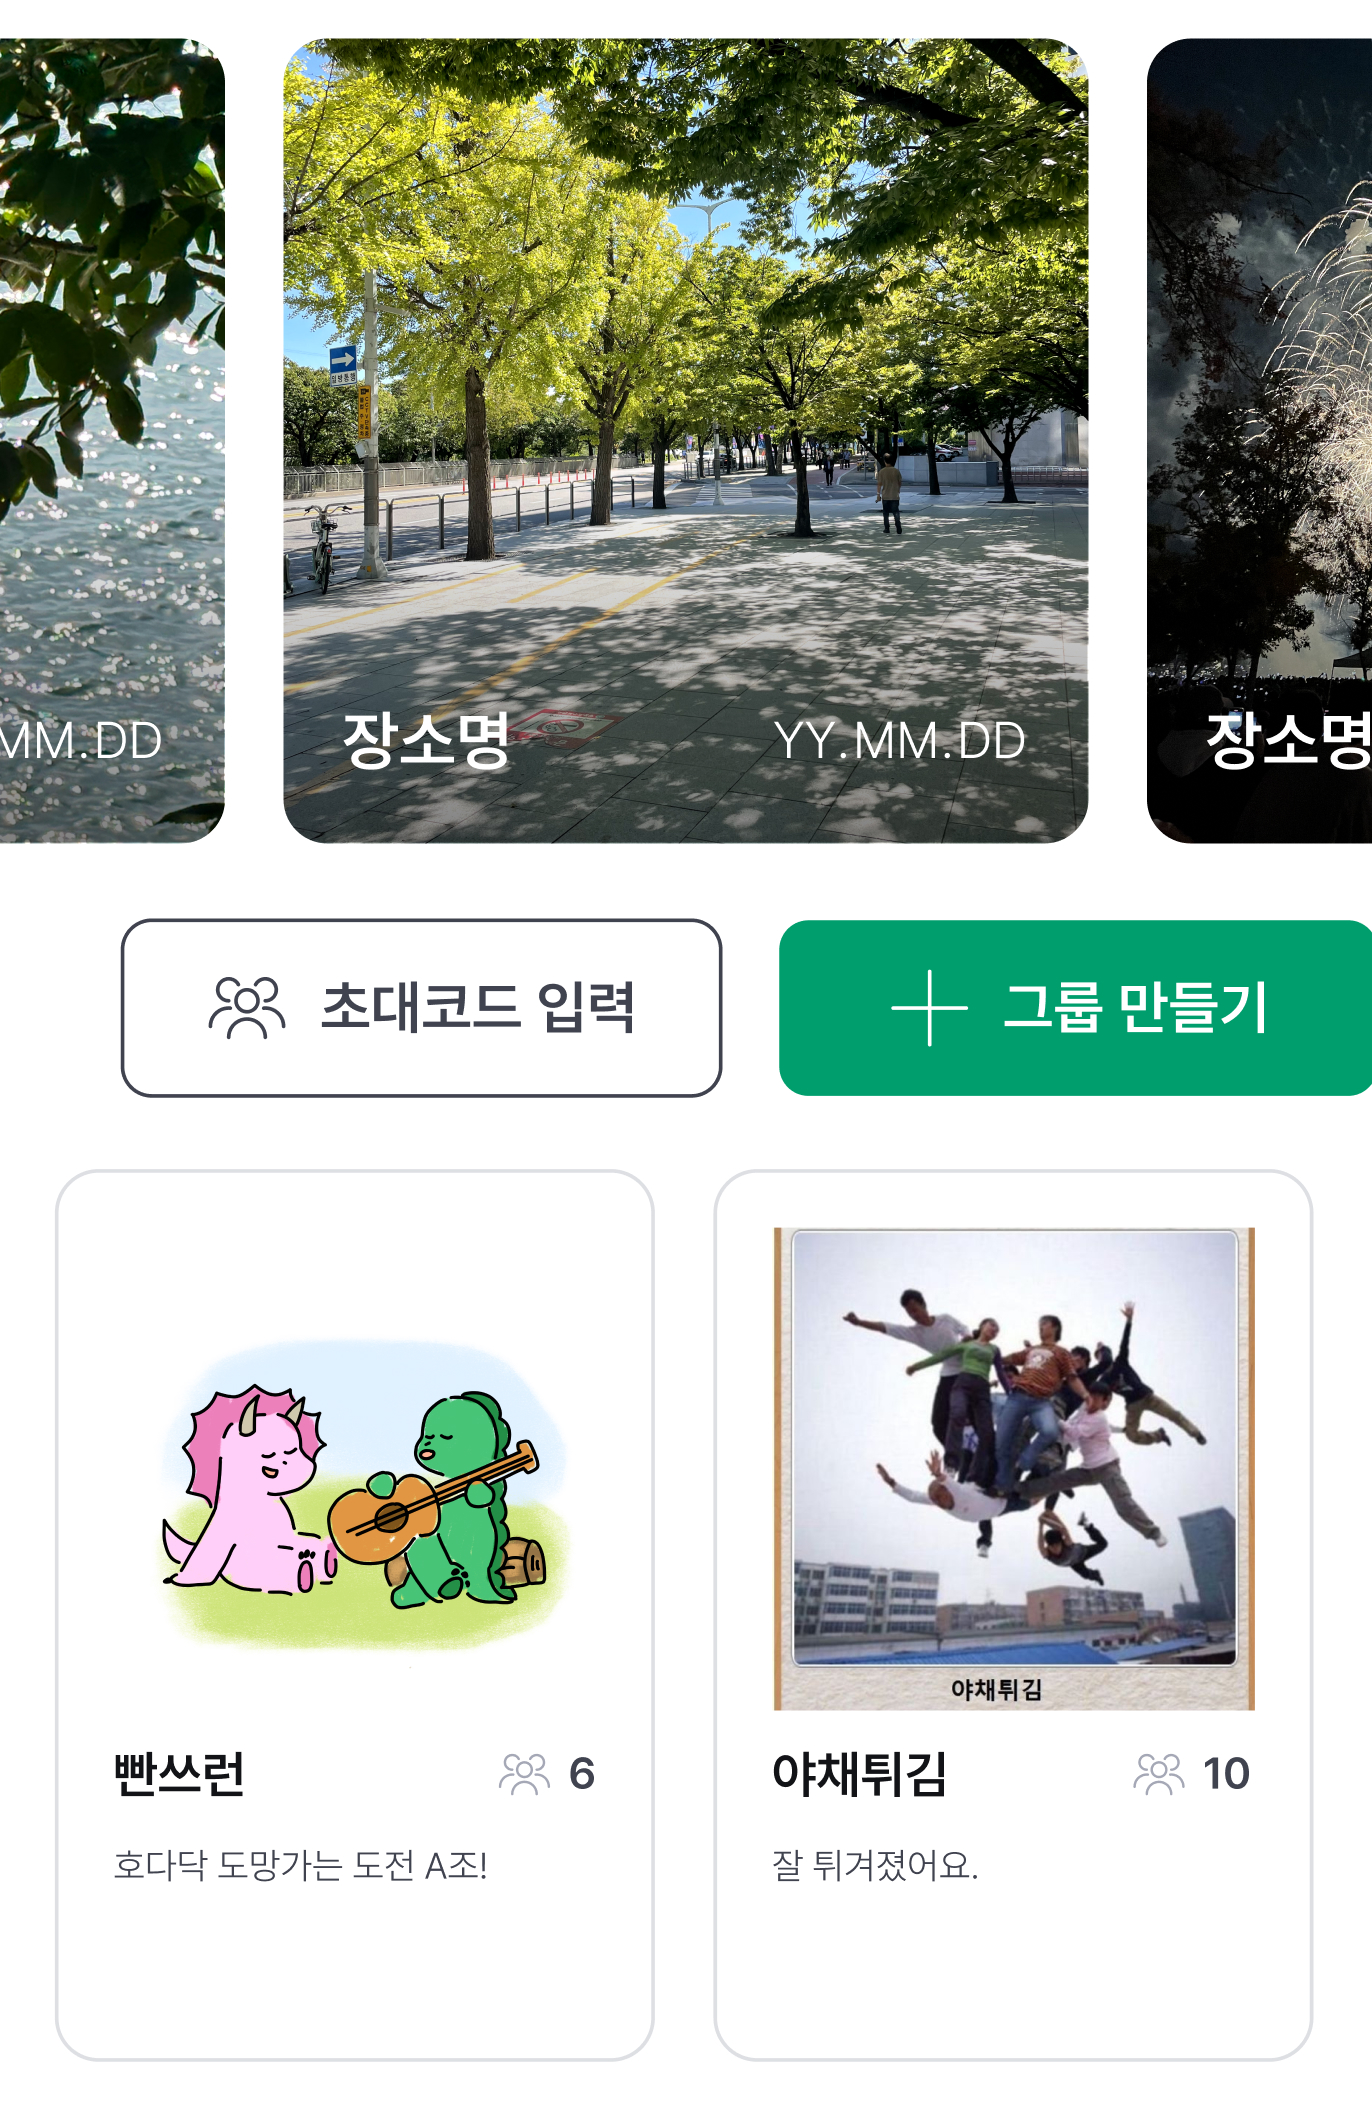
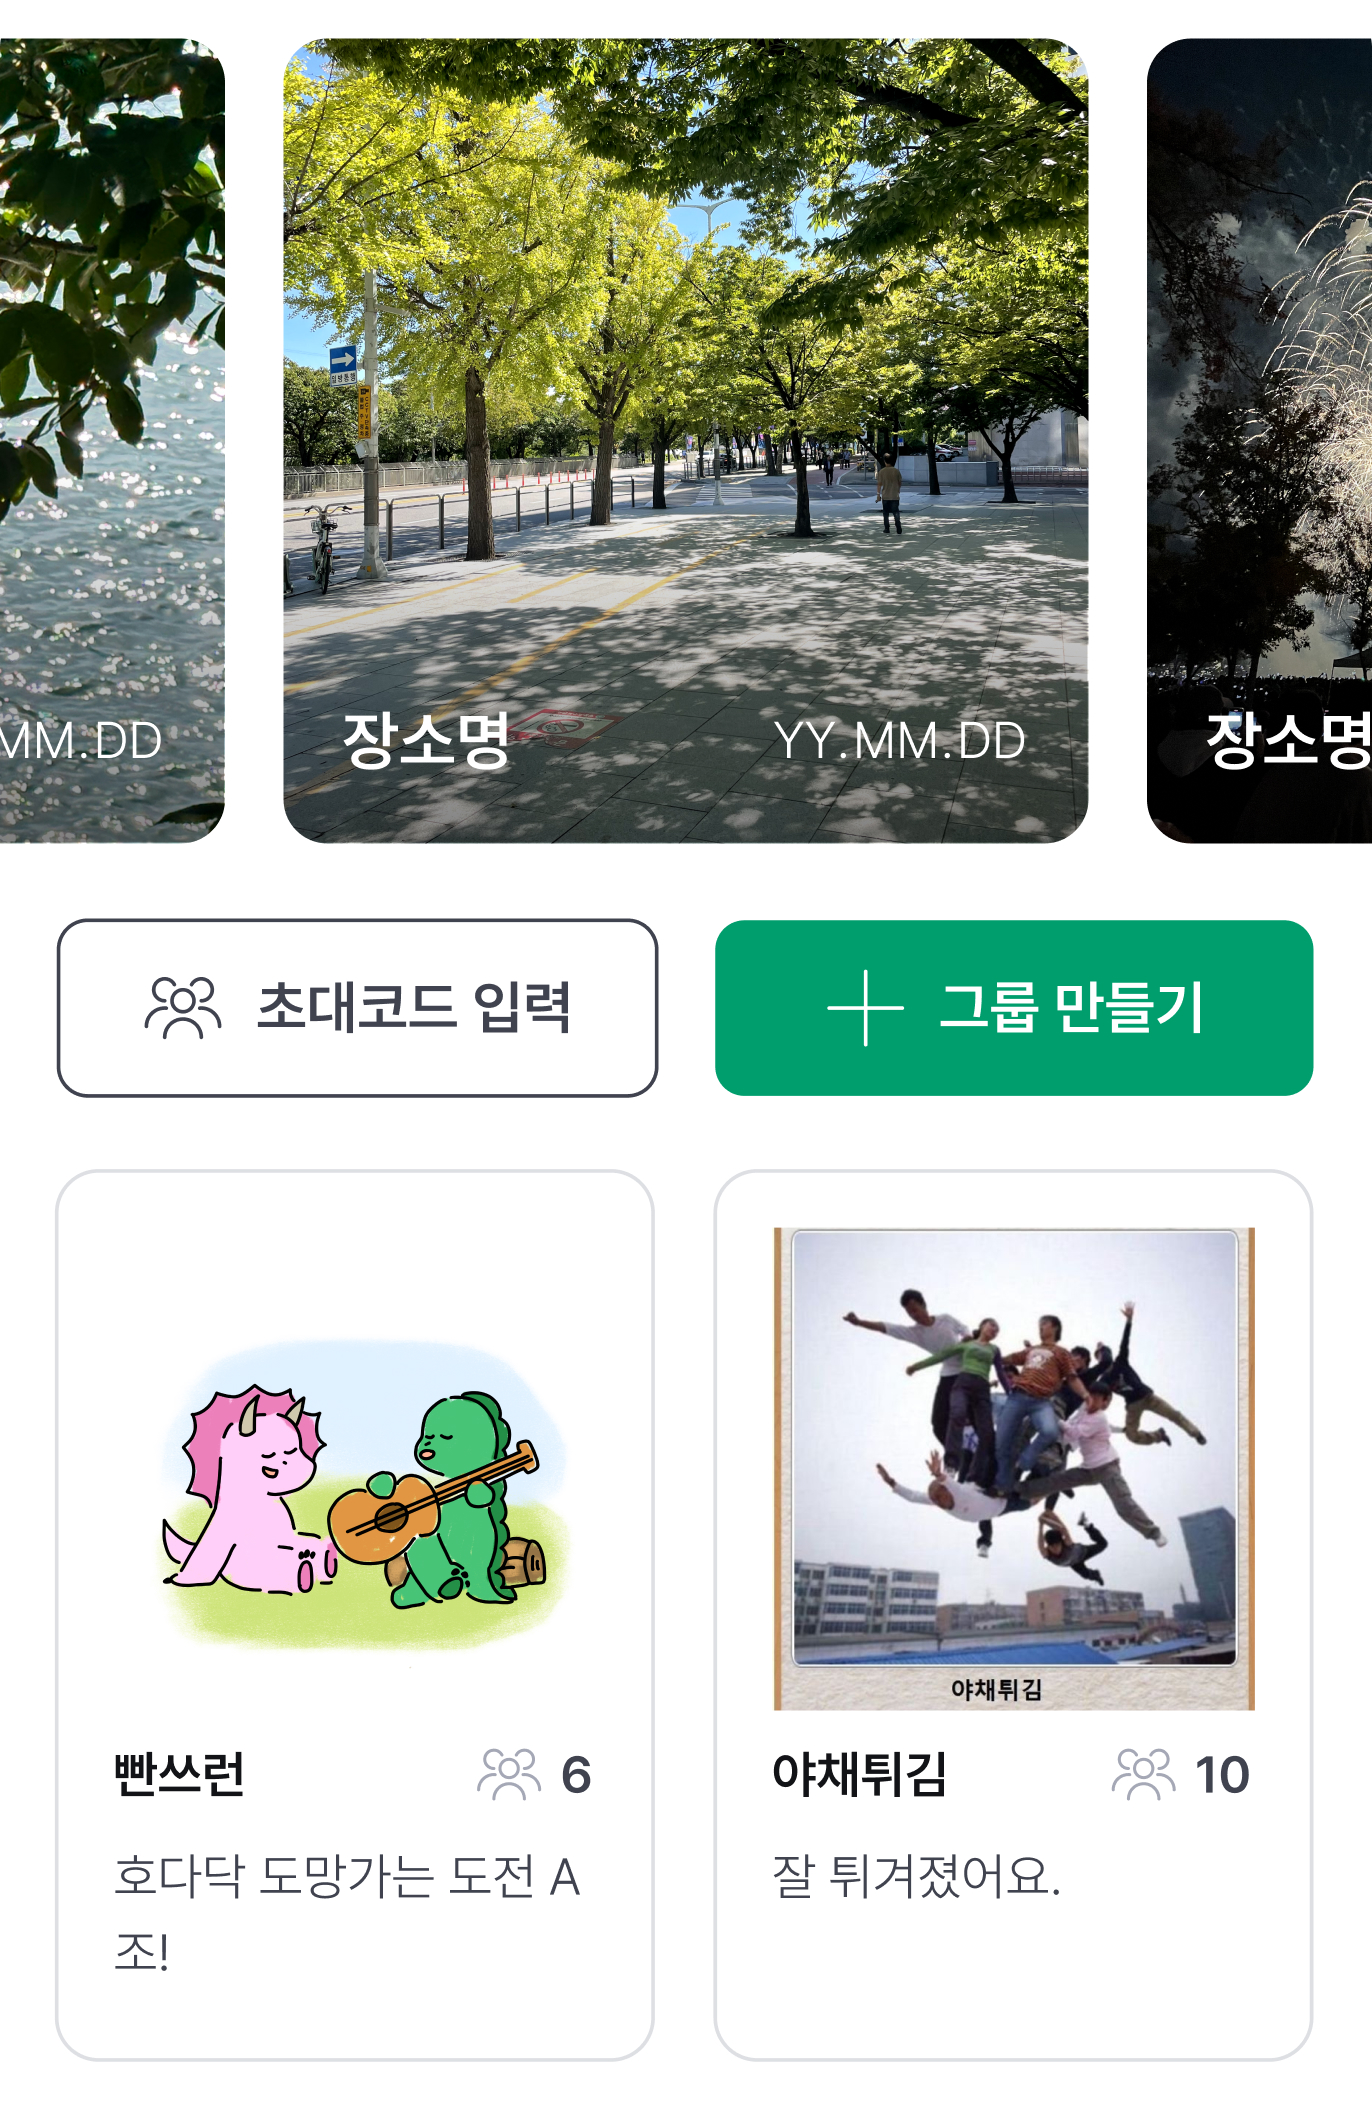
style: 디자인 qa 수정

diff --git a/src/components/landing/ScrollSections.tsx b/src/components/landing/ScrollSections.tsx
@@ -47,10 +47,10 @@ const ScrollSections = () => {
   }, [sections, lastPage]);
 
   return (
-    <div className='flex flex-col gap-4'>
+    <div className='flex flex-col gap-[164px]'>
       <section
         ref={section1Ref}
-        className='flex h-screen flex-col items-center gap-5 pt-24'
+        className='flex h-screen flex-col items-center justify-center gap-5 pt-14'
       >
         <div className='flex flex-col items-center justify-center'>
           <p className='text-label_md text-gray-900'>스냅로드 지도위에</p>
@@ -79,7 +79,7 @@ const ScrollSections = () => {
       </section>
       <section
         ref={section2Ref}
-        className='flex h-screen flex-col items-center gap-7 px-4 pt-24'
+        className='flex h-screen flex-col items-center justify-center gap-7 px-4 pt-14'
       >
         <div className='flex flex-col items-center justify-center'>
           <p className='text-label_md'>
@@ -93,21 +93,22 @@ const ScrollSections = () => {
             <span className='text-gray-900'>해요!</span>
           </p>
         </div>
-        <div className='relative w-full max-w-[400px] rounded-xl shadow-BG_Broad'>
+        <div className='relative flex w-full max-w-[400px] justify-center rounded-xl shadow-BG_Broad'>
           <Image
             src={image2}
             alt='그룹리스트페이지 예시 사진'
             sizes='400px'
             style={{
-              width: '100%',
+              width: '343px',
               height: 'auto',
+              borderRadius: '12px',
             }}
           />
         </div>
       </section>
       <section
         ref={section3Ref}
-        className='flex h-screen flex-col items-center gap-10 px-4 pt-24'
+        className='flex h-screen flex-col items-center justify-center gap-7 px-4 pt-14'
       >
         <div className='flex flex-col items-center justify-center'>
           <p className='text-label_md'>
@@ -116,21 +117,22 @@ const ScrollSections = () => {
           </p>
           <p className='text-label_md text-gray-900'>시간 순으로 지도위에 연결되어 표시돼요!</p>
         </div>
-        <div className='relative w-full max-w-[400px] rounded-xl shadow-BG_Broad'>
+        <div className='relative flex w-full max-w-[400px] justify-center rounded-xl shadow-BG_Broad'>
           <Image
             src={image3}
             alt='그룹 앨범 예시 사진'
             sizes='400px'
             style={{
-              width: '100%',
+              width: '343px',
               height: 'auto',
+              borderRadius: '12px',
             }}
           />
         </div>
       </section>
       <section
         ref={section4Ref}
-        className='flex h-screen flex-col items-center gap-10 px-4 pt-24'
+        className='flex h-screen flex-col items-center justify-center gap-7 px-4 pt-14'
       >
         <div className='flex flex-col items-center justify-center'>
           <p className='text-label_md text-gray-900'>피드에 업로드한 게시물들은</p>
@@ -139,21 +141,22 @@ const ScrollSections = () => {
             <span className='text-gray-900'>돼요!</span>
           </p>
         </div>
-        <div className='relative w-full max-w-[400px] rounded-xl shadow-BG_Broad'>
+        <div className='relative flex w-full max-w-[400px] justify-center rounded-xl shadow-BG_Broad'>
           <Image
             src={image4}
             alt='그룹 지도 예시 사진'
             sizes='400px'
             style={{
-              width: '100%',
+              width: '343px',
               height: 'auto',
+              borderRadius: '12px',
             }}
           />
         </div>
       </section>
       <section
         ref={section5Ref}
-        className='flex h-screen flex-col items-center gap-10 px-4 pt-24'
+        className='flex h-screen flex-col items-center justify-center gap-7 px-4 pt-14'
       >
         <div className='flex flex-col items-center justify-center'>
           <p className='text-label_md'>
@@ -161,26 +164,27 @@ const ScrollSections = () => {
             <span className='text-gray-900'>하여</span>
           </p>
           <p className='text-label_md'>
-            <span className='text-gray-900'>그 곳에서의</span>
-            <span className='text-primary-400'>추억을 글로</span>
+            <span className='text-gray-900'>그 곳에서의 </span>
+            <span className='text-primary-400'>추억을 글로 </span>
             <span className='text-gray-900'>남겨봐요!</span>
           </p>
         </div>
-        <div className='relative w-full max-w-[400px] rounded-xl shadow-BG_Broad'>
+        <div className='relative flex w-full max-w-[400px] justify-center rounded-xl shadow-BG_Broad'>
           <Image
             src={image5}
             alt='게시글 상세 예시 사진'
             sizes='400px'
             style={{
-              width: '100%',
+              width: '343px',
               height: 'auto',
+              borderRadius: '12px',
             }}
           />
         </div>
       </section>
       <section
         ref={section6Ref}
-        className='flex h-screen flex-col items-center gap-10 px-4 pt-24'
+        className='flex h-screen flex-col items-center justify-center gap-7 px-4 pt-14'
       >
         <div className='flex flex-col items-center justify-center'>
           <p className='text-label_md text-gray-900'>그룹내 멤버들과</p>
@@ -189,17 +193,23 @@ const ScrollSections = () => {
             <span className='text-gray-900'>을 나눠봐요!</span>
           </p>
         </div>
-        <div className='relative w-full max-w-[400px] rounded-xl shadow-BG_Broad'>
+        <div className='relative flex w-full max-w-[400px] justify-center rounded-xl shadow-BG_Broad'>
           <Image
             src={image6}
             alt='그룹 지도 예시 사진'
             sizes='400px'
             style={{
-              width: '100%',
+              width: '343px',
               height: 'auto',
+              borderRadius: '12px',
             }}
           />
         </div>
+        <LinkButton
+          href='/login'
+          label='로그인하여 시작'
+          size='full'
+        />
       </section>
     </div>
   );

diff --git a/src/stories/Modal.tsx b/src/stories/Modal.tsx
@@ -13,8 +13,8 @@ const modalOverlayClass =
   'fixed inset-0 z-[100] flex items-center justify-center bg-black bg-opacity-50 transition-opacity duration-300 px-4';
 const modalContentClass =
   'relative z-[300] bg-white rounded-xl pb-4 px-4 shadow-lg max-w-md w-full transition-transform duration-300';
-const closeButtonClass = 'absolute z-12 top-4 right-4 text-gray-500 hover:text-gray-700 focus:outline-none';
-const closeButtonTitleClass = 'absolute z-12 right-4 text-gray-500 hover:text-gray-700 focus:outline-none';
+const closeButtonClass = 'absolute z-[400] top-4 right-4 text-gray-500 hover:text-gray-700 focus:outline-none';
+const closeButtonTitleClass = 'absolute z-[400] right-4 text-gray-500 hover:text-gray-700 focus:outline-none';
 const closeIconClass = 'w-5 h-5';
 
 export const Modal = ({ isModalOpen, handleModalOpen, children, title }: ModalProps) => {

diff --git a/src/stories/LinkButton.tsx b/src/stories/LinkButton.tsx
@@ -36,8 +36,8 @@ export const LinkButton = ({
   const sizeStyle = {
     small: 'px-4 py-2 text-label_sm rounded-[4px]',
     medium: 'px-5 py-3 text-label_md rounded-[8px]',
-    large: 'px-6 py-3 text-title_lg rounded-[12px]',
-    full: 'px-5 py-3  ssm:text-label_md text-[13px] rounded-[8px] w-full',
+    large: 'px-6 py-3 text-label-lg rounded-[12px]',
+    full: 'px-6 py-4 ssm:text-title_lg text-[13px] rounded-[8px] w-full',
   }[size];
 
   let colorStyle;

diff --git a/src/components/_common/ScrollReactHeader.tsx b/src/components/_common/ScrollReactHeader.tsx
@@ -19,7 +19,7 @@ const ScrollReactHeader = ({ children }: { children: React.ReactNode }) => {
   return (
     <header
       className={`fixed top-0 z-10 mx-auto flex w-full max-w-[1200px] flex-row justify-between bg-white px-4 py-2 transition-all duration-300 ${
-        hasScrolled ? 'border-b border-gray-300' : 'border-b-0'
+        hasScrolled ? 'border-b border-gray-100' : 'border-b-0'
       }`}
     >
       {children}
